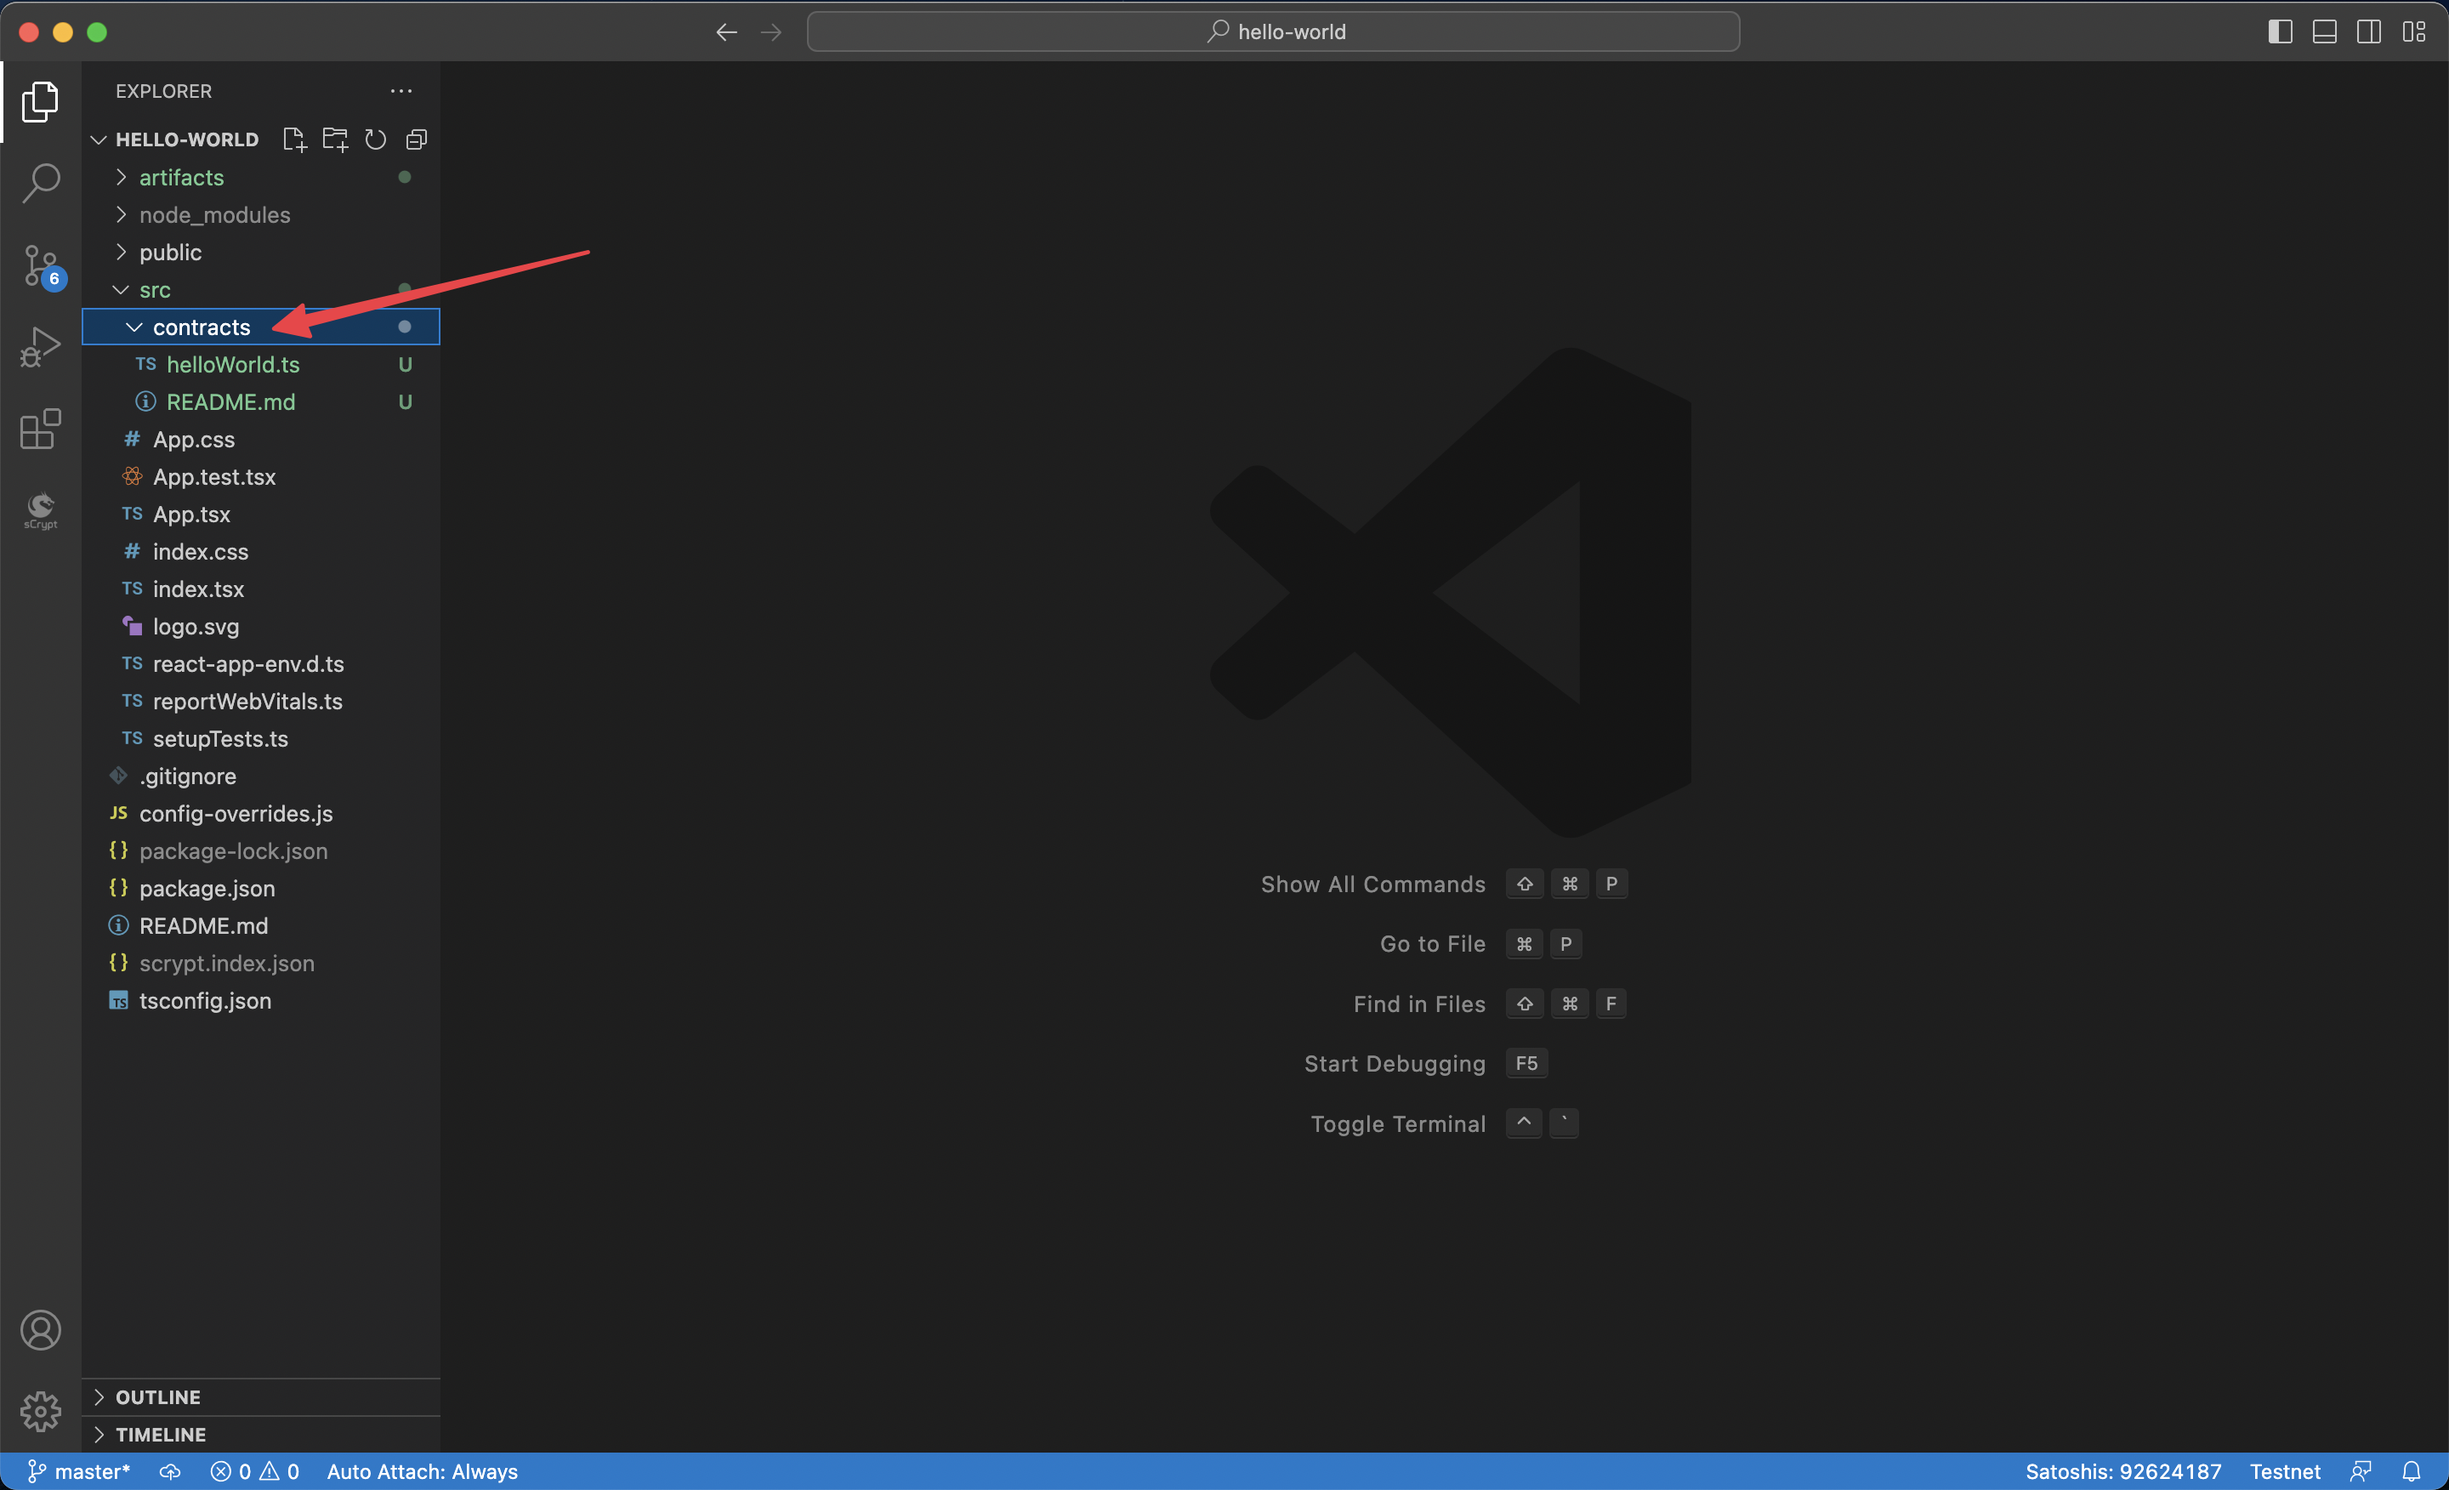
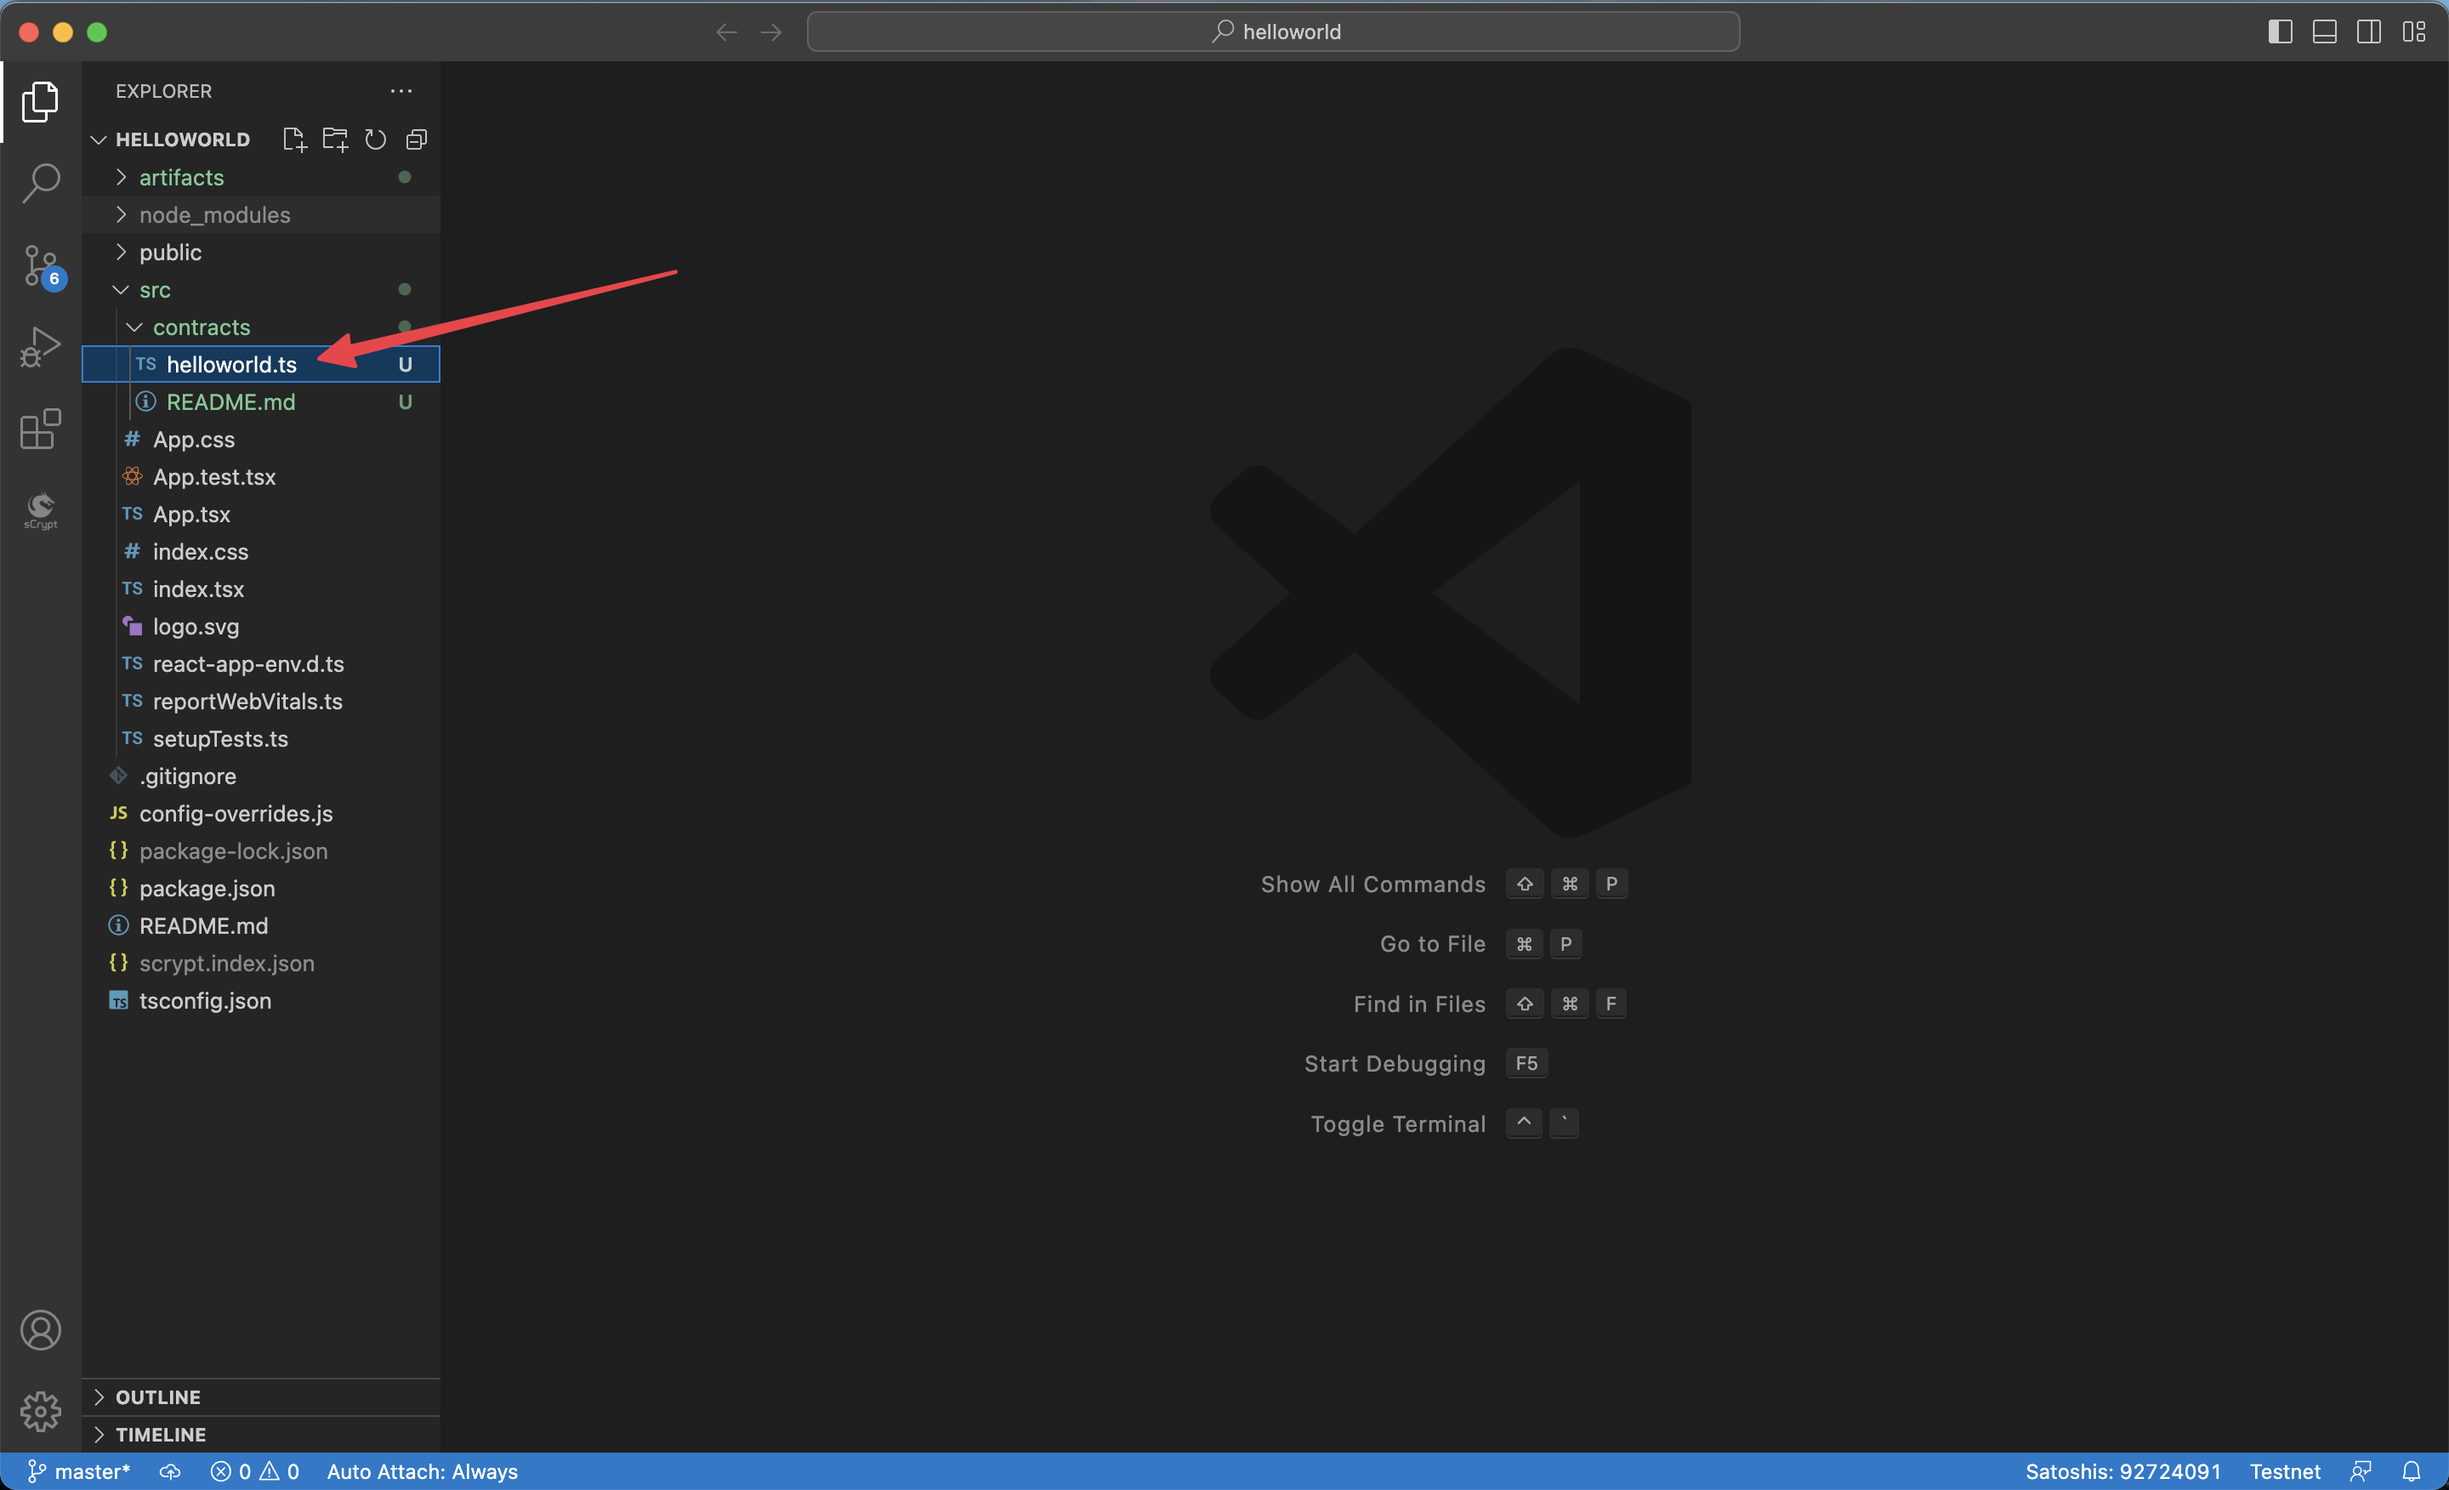
Fix screenshots and typo

Changed region(s): [[0.0312, 0.1849, 0.25, 0.2774], [0.5, 0.0, 0.5625, 0.0308], [0.875, 0.9863, 0.9062, 1.0]]

diff --git a/docs/how-to-integrate-a-frontend.md b/docs/how-to-integrate-a-frontend.md
@@ -49,7 +49,7 @@ We'll take a look at how to generate the artifact by ourselves first.
 
 Before you start, you need to get the contract source files, as a frontend developer.
 
-Let's use the [HelloWorld contract](./tutorials/hello-world.md) as an example. Copy and paste `helloworld.ts` into the `src/contracts` directory.
+Let's use the [Helloworld contract](./tutorials/hello-world.md) as an example. Copy and paste `helloworld.ts` into the `src/contracts` directory.
 
 ![](../static/img/copy-contract-source.png)
 
@@ -70,9 +70,9 @@ After the compilation, you will get an JSON artifact file at `artifacts/src/cont
 Now with the contract artifact file, you directly load it in the `index.tsx` file.
 
 ```ts
-import { HelloWorld } from './contracts/helloworld';
+import { Helloworld } from './contracts/helloworld';
 var artifact = require('../artifacts/src/contracts/helloworld.json');
-HelloWorld.loadArtifact(artifact);
+Helloworld.loadArtifact(artifact);
 ```
 
 Now you can create an instance from the contract class as before.
@@ -82,12 +82,12 @@ const instance = new Helloworld(sha256(message))
 ```
 
 :::info
-You cannot simply call `HelloWorld.compile()` at the front end, since it only works in NodeJS, not in browser.
+You cannot simply call `Helloworld.compile()` at the front end, since it only works in NodeJS, not in browser.
 :::
 
 ## Integrate Wallet
 
-Your will integrate [Sensilet](https://sensilet.com/), a MetaMask-like wallet, into the project.
+You will integrate [Sensilet](https://sensilet.com/), a MetaMask-like wallet, into the project.
 
 :::info
 You can refer to this [guide](./how-to-add-a-signer.md) to add support for other wallets.
